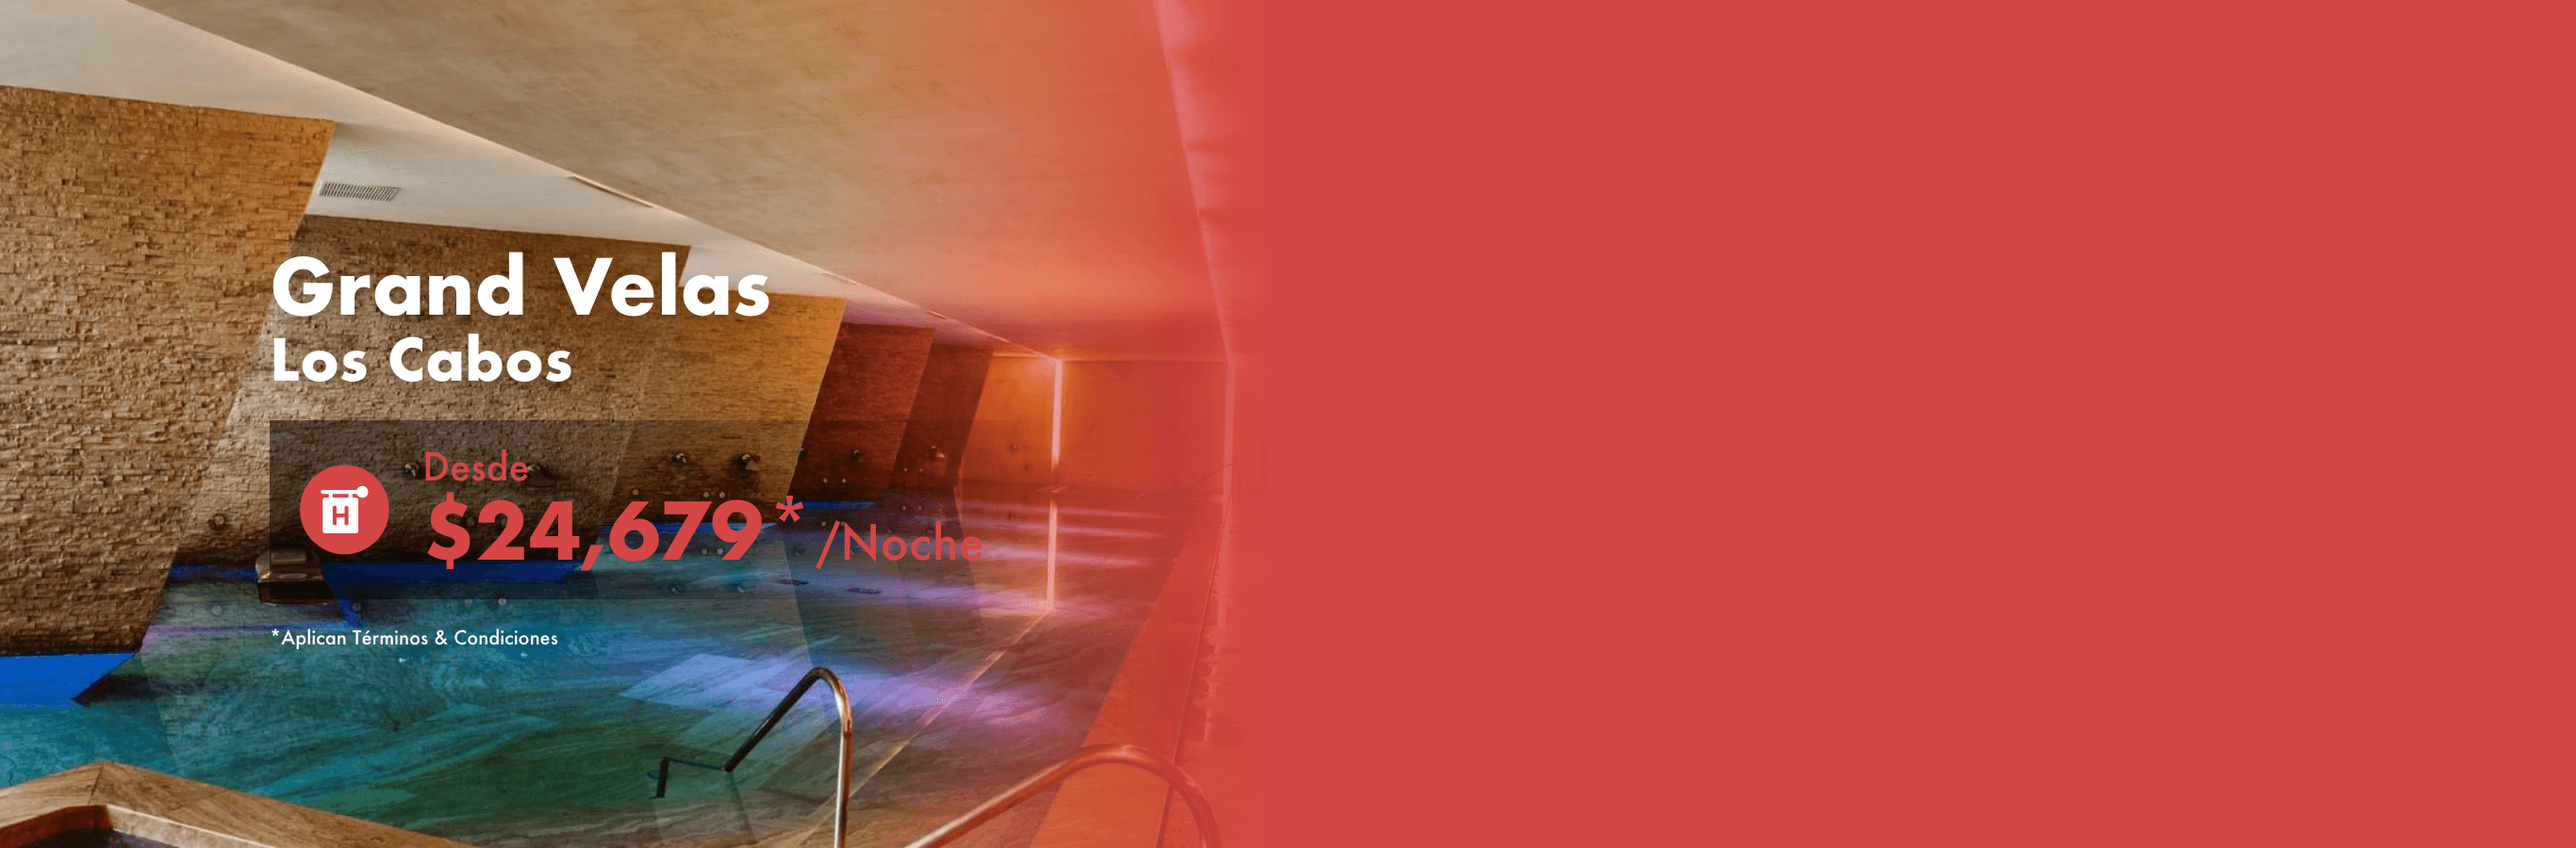
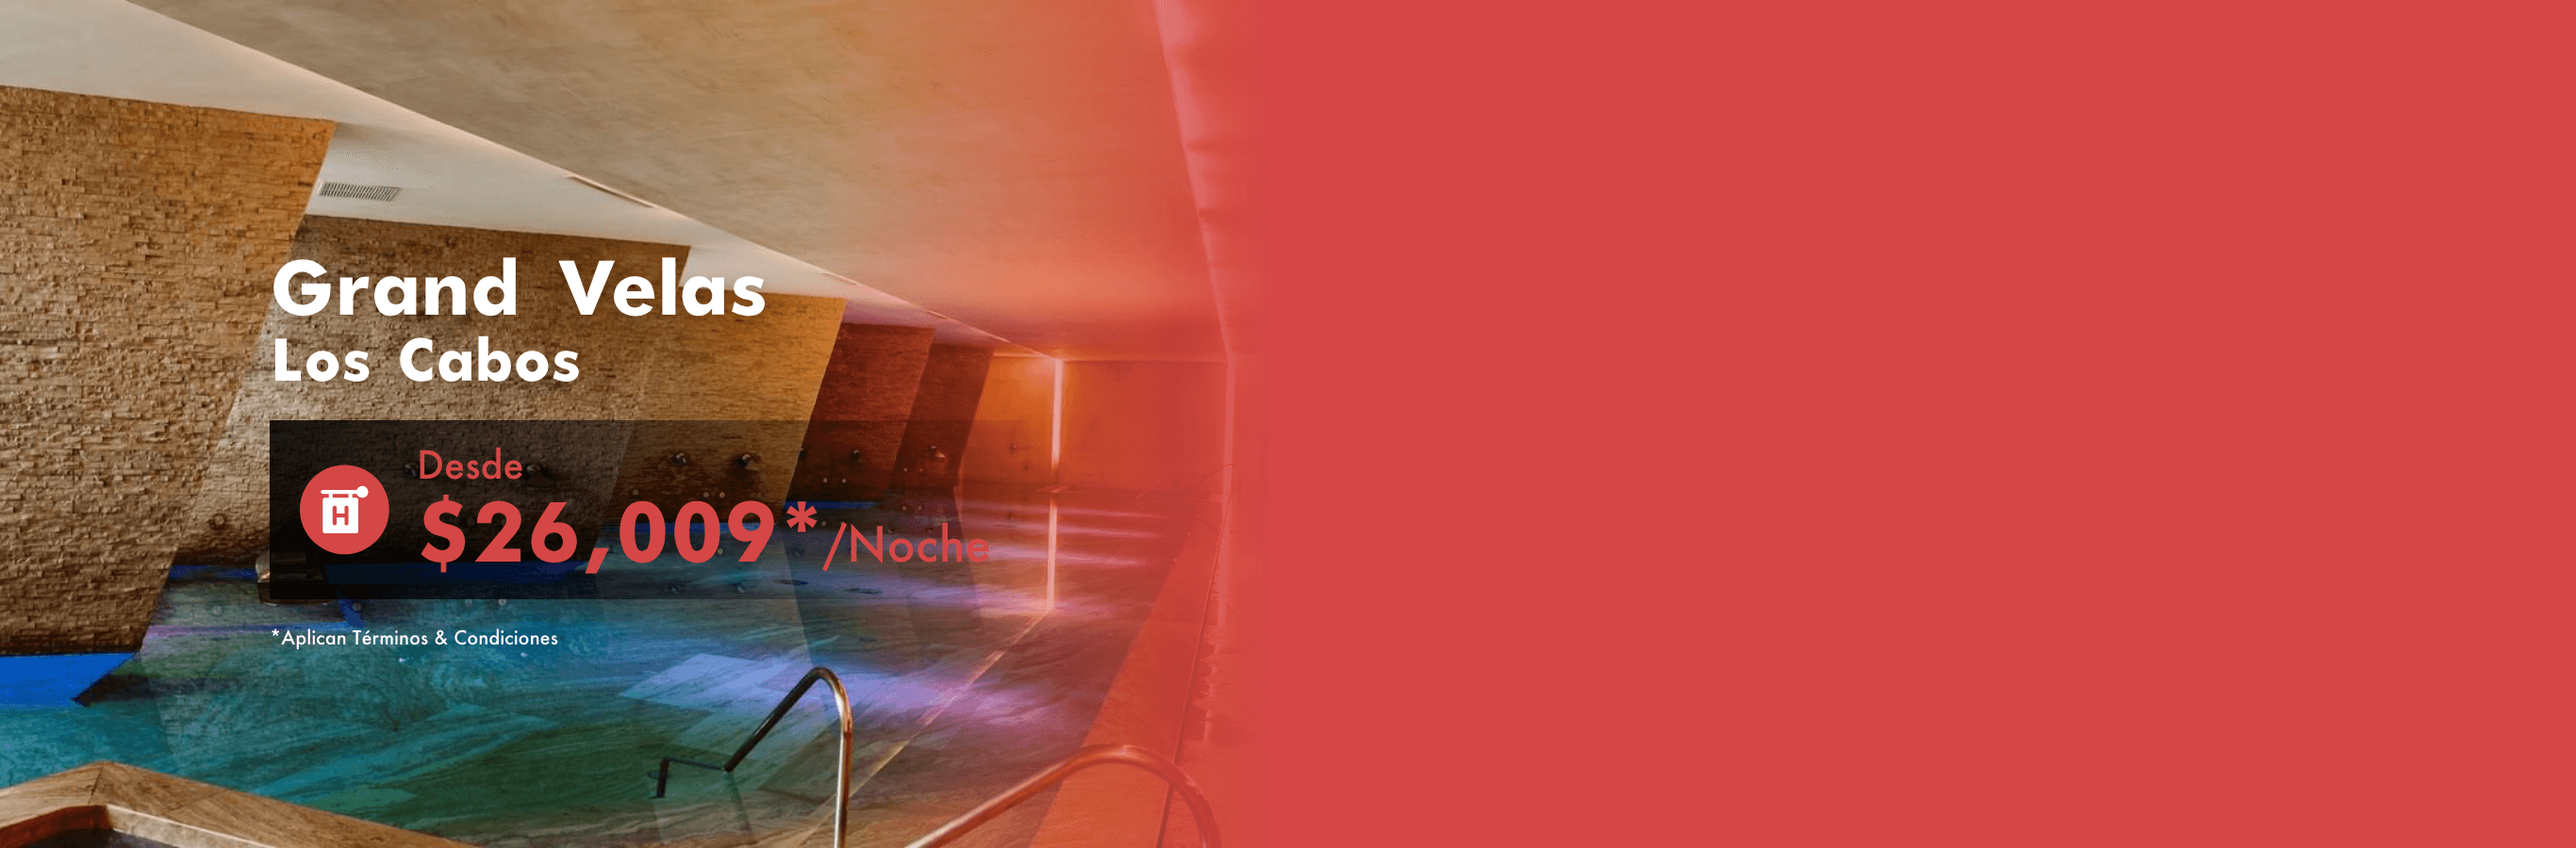
Cambios de precio y slides

Changed region(s): [[0.0933, 0.4978, 0.4045, 0.7156], [0.0933, 0.28, 0.3111, 0.4667], [0.28, 0.7778, 0.4045, 0.8711]]

diff --git a/index.php b/index.php
@@ -127,7 +127,7 @@
                             <div class="col-md-12 col-sm-12 p-15">
                                 <h4 class="mb-0 text-uppercase f-medium f-res-20">Nobu</h4>
                                 <small class="c-red f-8">Desde</small>
-                                <p class="c-red f-16">$12,867*<span class="fs-8">/Noche</span></p>
+                                <p class="c-red f-16">$8,857*<span class="fs-8">/Noche</span></p>
                                 <a href="#main" class="btn col-md-12 col-xs-12 btn-yellow white-text mb-10 radius-0 f-bold mb-0 txt-cap p-15 form-desktop">Llámame</a>
                                 <a href="#formRes" class="btn col-md-12 col-xs-12 btn-yellow white-text mb-10 radius-0 f-bold mb-0 txt-cap p-15 d-mobile">Llámame</a>
                             </div>
@@ -141,7 +141,7 @@
                             <div class="col-md-12 col-sm-12 p-15">
                                 <h4 class="mb-0 mb-0 text-uppercase f-medium f-res-20">Grand Velas Los Cabos</h4>
                                 <small class="c-red f-8">Desde</small>
-                                <p class="c-red f-16">$24,679*<span class="fs-8">/Noche</span></p>
+                                <p class="c-red f-16">$26,009*<span class="fs-8">/Noche</span></p>
                                 <a href="#main" class="btn col-md-12 col-xs-12 btn-yellow white-text mb-10 radius-0 f-bold mb-0 txt-cap p-15 form-desktop">Llámame</a>
                                 <a href="#formRes" class="btn col-md-12 col-xs-12 btn-yellow white-text mb-10 radius-0 f-bold mb-0 txt-cap p-15 d-mobile">Llámame</a>
                             </div>
@@ -183,7 +183,7 @@
                             <div class="col-md-12 col-sm-12 p-15">
                                 <h4 class="mb-0 text-uppercase f-medium f-res-20">Azul Talavera</h4>
                                 <small class="c-red f-8">Desde</small>
-                                <p class="c-red f-16">$4,305*<span class="fs-8">/Noche</span></p>
+                                <p class="c-red f-16">$4,429.58*<span class="fs-8">/Noche</span></p>
                                 <a href="#main" class="btn col-md-12 col-xs-12 btn-yellow white-text mb-10 radius-0 f-bold mb-0 txt-cap p-15 form-desktop">Llámame</a>
                                 <a href="#formRes" class="btn col-md-12 col-xs-12 btn-yellow white-text mb-10 radius-0 f-bold mb-0 txt-cap p-15 d-mobile">Llámame</a>
                             </div>
@@ -209,7 +209,7 @@
                             <div class="col-md-12 col-sm-12 p-15">
                                 <h4 class="text-uppercase f-medium f-res-20">The Grand Moon Palace </h4>
                                 <small class="c-red f-8">Desde</small>
-                                <p class="c-red f-16">$8,983*<span class="fs-8">/Persona</span></p>
+                                <p class="c-red f-16">$13,743*<span class="fs-8">/Persona</span></p>
                                 <a href="#main" class="btn col-md-12 col-xs-12 btn-yellow white-text mb-10 radius-0 f-bold mb-0 txt-cap p-15 form-desktop">Llámame</a>
                                 <a href="#formRes" class="btn col-md-12 col-xs-12 btn-yellow white-text mb-10 radius-0 f-bold mb-0 txt-cap p-15 d-mobile">Llámame</a>
                             </div>
@@ -221,9 +221,9 @@
                         </div>
                         <div class="b_pack rows pre-15">
                             <div class="col-md-12 col-sm-12 p-15">
-                                <h4 class="text-uppercase f-medium f-res-20">Hard Rock Cancún</h4>
+                                <h4 class="mb-0 text-uppercase f-medium f-res-20">Hard Rock Hotel Cancun</h4>
                                 <small class="c-red f-8">Desde</small>
-                                <p class="c-red f-16">$12,274*<span class="fs-8">/Persona</span></p>
+                                <p class="c-red f-16">$9,917*<span class="fs-8">/Persona</span></p>
                                 <a href="#main" class="btn col-md-12 col-xs-12 btn-yellow white-text mb-10 radius-0 f-bold mb-0 txt-cap p-15 form-desktop">Llámame</a>
                                 <a href="#formRes" class="btn col-md-12 col-xs-12 btn-yellow white-text mb-10 radius-0 f-bold mb-0 txt-cap p-15 d-mobile">Llámame</a>
                             </div>
@@ -237,7 +237,7 @@
                             <div class="col-md-12 col-sm-12 p-15">
                                 <h4 class="mb-0 text-uppercase f-medium f-res-20">Dreams Playa Mujeres Golf Resort & Spa</h4>
                                 <small class="c-red f-8">Desde</small>
-                                <p class="c-red f-16">$9,934*<span class="fs-8">/Persona</span></p>
+                                <p class="c-red f-16">$9,538*<span class="fs-8">/Persona</span></p>
                                 <a href="#main" class="btn col-md-12 col-xs-12 btn-yellow white-text mb-10 radius-0 f-bold mb-0 txt-cap p-15 form-desktop">Llámame</a>
                                 <a href="#formRes" class="btn col-md-12 col-xs-12 btn-yellow white-text mb-10 radius-0 f-bold mb-0 txt-cap p-15 d-mobile">Llámame</a>
                             </div>
@@ -251,7 +251,7 @@
                             <div class="col-md-12 col-sm-12 p-15">
                                 <h4 class="text-uppercase f-medium f-res-20">UNICO 20ºN 87ºW</h4>
                                 <small class="c-red f-8">Desde</small>
-                                <p class="c-red f-16">$15,142*<span class="fs-8">/Persona</span></p>
+                                <p class="c-red f-16">$14,581*<span class="fs-8">/Persona</span></p>
                                 <a href="#main" class="btn col-md-12 col-xs-12 btn-yellow white-text mb-10 radius-0 f-bold mb-0 txt-cap p-15 form-desktop">Llámame</a>
                                 <a href="#formRes" class="btn col-md-12 col-xs-12 btn-yellow white-text mb-10 radius-0 f-bold mb-0 txt-cap p-15 d-mobile">Llámame</a>
                             </div>
@@ -265,7 +265,7 @@
                             <div class="col-md-12 col-sm-12 p-15">
                                 <h4 class="mb-0 text-uppercase f-medium f-res-20">GRAND VELAS RIVIERA NAYARIT</h4>
                                 <small class="c-red f-8">Desde</small>
-                                <p class="c-red f-16">$15,899*<span class="fs-8">/Persona</span></p>
+                                <p class="c-red f-16">$18,795*<span class="fs-8">/Persona</span></p>
                                 <a href="#main" class="btn col-md-12 col-xs-12 btn-yellow white-text mb-10 radius-0 f-bold mb-0 txt-cap p-15 form-desktop">Llámame</a>
                                 <a href="#formRes" class="btn col-md-12 col-xs-12 btn-yellow white-text mb-10 radius-0 f-bold mb-0 txt-cap p-15 d-mobile">Llámame</a>
                             </div>
